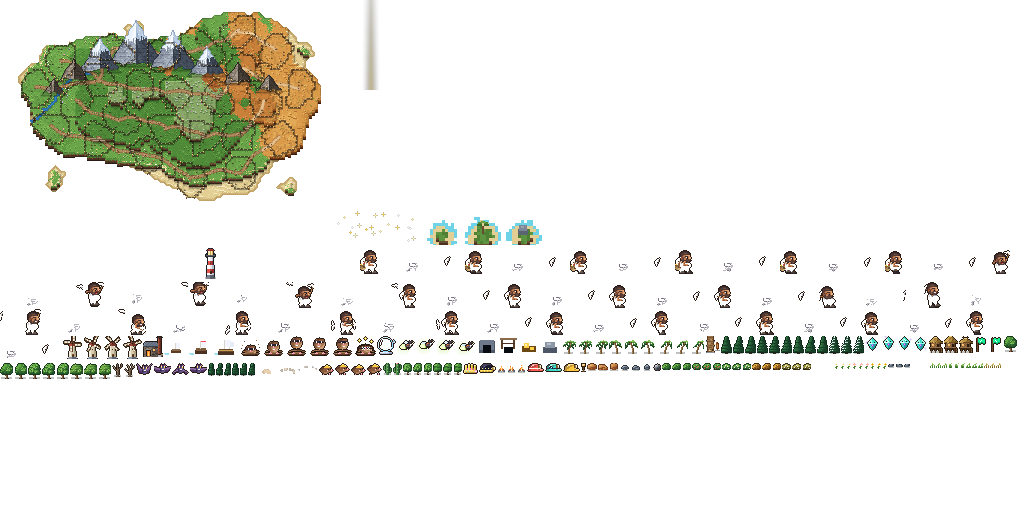
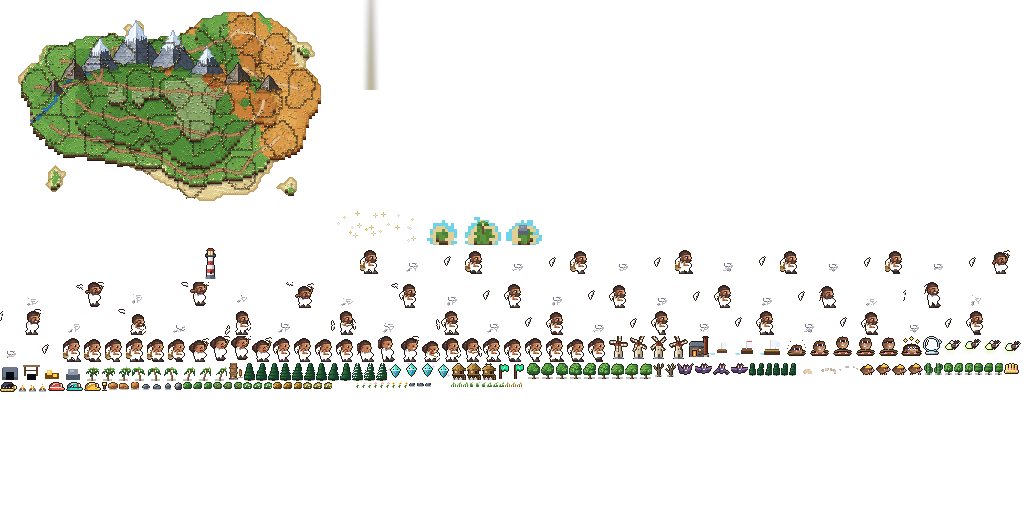
Girl miner: new body sprites, boy/girl choice for new players, synced in lobby and island

Changed region(s): [[0.0, 0.6562, 1.0, 0.7812]]

diff --git a/app/src/ui/Lobby.tsx b/app/src/ui/Lobby.tsx
@@ -7,7 +7,7 @@
  * It also holds the "back to lobby" pills the other screens use.
  */
 import AsyncStorage from '@react-native-async-storage/async-storage';
-import { useCallback, useEffect, useRef, useState } from 'react';
+import { useCallback, useEffect, useMemo, useRef, useState } from 'react';
 import { Animated, FlatList, Image, KeyboardAvoidingView, Modal, Platform, Pressable, ScrollView, StyleSheet, TextInput, View } from 'react-native';
 import { useSafeAreaInsets } from 'react-native-safe-area-context';
 import { COLORS, levelFromXp } from '../game/constants';
@@ -62,7 +62,9 @@ function LobbyInner({ onMarket, top, bottomInset, sheet, onTab }: { onMarket: ()
   const [navOpen, setNavOpen] = useState(false);
   const [howTo, setHowTo] = useState(false);
   const [tipTo, setTipTo] = useState<{ id: string; name: string; wallet: string } | null>(null);
-  const look = useRef(myLook()).current;
+  const sex = useName((s) => s.sex);
+  // eslint-disable-next-line react-hooks/exhaustive-deps
+  const look = useMemo(() => ({ ...myLook(), sex }), [sex]);
   const lvlRef = useRef(lvl);
   lvlRef.current = lvl;
 
@@ -612,12 +614,14 @@ const cs = StyleSheet.create({
 function NamePrompt({ first, onDone }: { first: boolean; onDone: () => void }) {
   const [v, setV] = useState(useName.getState().name);
   const [err, setErr] = useState('');
+  const [sex, setSex] = useState<'m' | 'f'>(useName.getState().sex);
   const save = () => {
     if (!cleanName(v)) {
       setErr('Use 2 to 14 letters, numbers, spaces, dots, dashes or underscores.');
       return;
     }
     useName.getState().set(v);
+    useName.getState().setSex(sex);
     onDone();
   };
   return (
@@ -644,6 +648,19 @@ function NamePrompt({ first, onDone }: { first: boolean; onDone: () => void }) {
           autoCorrect={false}
           style={[styles.input, { flex: 0, height: 46, minHeight: 46, width: '100%', fontSize: 18, textAlign: 'center' }]}
         />
+        <T v="label" style={{ textAlign: 'center' }}>
+          Your miner
+        </T>
+        <View style={styles.tipRow}>
+          {([['m', '👨\u200d🔧', 'BOY'], ['f', '👩\u200d🔧', 'GIRL']] as const).map(([k, icon, label]) => (
+            <Pressable key={k} onPress={() => setSex(k)} style={[styles.tipChip, { flex: 1 }, sex === k && styles.tipOn]} accessibilityRole="button" accessibilityLabel={`${label} miner`}>
+              <T style={{ fontSize: 26 }}>{icon}</T>
+              <T v="black" style={{ fontSize: 13, color: sex === k ? '#10162c' : COLORS.text }}>
+                {label}
+              </T>
+            </Pressable>
+          ))}
+        </View>
         {err ? (
           <T v="bold" style={{ color: COLORS.red, fontSize: 12, textAlign: 'center' }}>
             {err}

diff --git a/app/src/pixel/PixelMine.tsx b/app/src/pixel/PixelMine.tsx
@@ -6,6 +6,7 @@
  * picture needs into a Snapshot and pushes it if anything changed. The engine
  * sends back taps, sounds and where your miner is. Nothing here draws.
  */
+import { useName } from '../game/username';
 import { useCallback, useEffect, useRef, useState } from 'react';
 import { StyleSheet, View } from 'react-native';
 import { BLOCKS, CAVE_IN_EVERY, GEAR, LOCK_MS, gearByKey, levelFromXp, type Gear } from '../game/constants';
@@ -37,6 +38,7 @@ function lookOfPeer(p: Avatar): Look {
     handle: pick?.color ?? '#6b4a32',
     pet: p.pk ?? (p.pet ? byColor('pet', p.pet)?.key ?? 'pet-mole' : null),
     glow: pick ? GLOW[pick.rarity] : 'none',
+    sex: p.sx === 'f' ? 'f' : 'm',
   };
 }
 
@@ -52,7 +54,7 @@ function myGear() {
 /** Your miner as the canvas draws it, for anything else that shows the same miner. */
 export function myLook(): Look {
   const { pick, hat, fit, pet } = myGear();
-  return { hat: hat.key, fit: fit.color, pick: pick.accent, handle: pick.color, pet: pet?.key ?? null, glow: GLOW[pick.rarity] };
+  return { hat: hat.key, fit: fit.color, pick: pick.accent, handle: pick.color, pet: pet?.key ?? null, glow: GLOW[pick.rarity], sex: useName.getState().sex };
 }
 
 function snapshot(): Snapshot {
@@ -99,7 +101,7 @@ function snapshot(): Snapshot {
     perBlock: potNow ? potNow.perBlock.map((v) => Math.round(v * 1e5) / 1e5) : Array(BLOCKS).fill(0),
     mine,
     me: {
-      look: { hat: hat.key, fit: fit.color, pick: pick.accent, handle: pick.color, pet: pet?.key ?? null, glow: GLOW[pick.rarity] },
+      look: { hat: hat.key, fit: fit.color, pick: pick.accent, handle: pick.color, pet: pet?.key ?? null, glow: GLOW[pick.rarity], sex: useName.getState().sex },
       emoji: emo(world.me),
       emoteAt: st.emote,
       name: 'You',
@@ -214,7 +216,7 @@ export default function PixelMine() {
         const lvl = levelFromXp(player ? player.xp + st.save.bonusXp : st.save.xp);
         const pose = e.pose === 'walk' || e.pose === 'swing' ? e.pose : 'idle';
         publishMe(
-          { x: e.x, y: e.y, tx: e.tx, ty: e.ty, facing: e.facing, pose, hat: hat.color, fit: fit.color, pick: pick.accent, pet: pet?.color ?? null, lvl, hk: hat.key, pk: pet?.key ?? null },
+          { x: e.x, y: e.y, tx: e.tx, ty: e.ty, facing: e.facing, pose, hat: hat.color, fit: fit.color, pick: pick.accent, pet: pet?.color ?? null, lvl, hk: hat.key, pk: pet?.key ?? null, sx: useName.getState().sex },
           { wallet: st.wallet.owner, session, sessionValid: Boolean(player && session && player.session === session.publicKey.toBase58() && player.sessionExpires * 1000 > Date.now()) },
         );
         break;

diff --git a/app/src/game/world.ts b/app/src/game/world.ts
@@ -35,6 +35,8 @@ export interface Avatar {
   /** helmet and pet gear keys, sent by newer clients; older ones send colours only */
   hk?: string;
   pk?: string | null;
+  /** which miner body they play: 'f' is the girl miner */
+  sx?: 'm' | 'f';
 }
 export interface MeState {
   x: number;
@@ -50,6 +52,7 @@ export interface MeState {
   lvl: number;
   hk?: string;
   pk?: string | null;
+  sx?: 'm' | 'f';
 }
 
 export const EMOTES = ['👋', '⛏', '🎉', '💎', '🔥'] as const;
@@ -208,6 +211,7 @@ function onState(p: any) {
     seen: Date.now(),
     hk: typeof p.hk === 'string' && /^hat-[a-z]{2,12}$/.test(p.hk) ? p.hk : undefined,
     pk: typeof p.pk === 'string' && /^pet-[a-z]{2,12}$/.test(p.pk) ? p.pk : null,
+    sx: p.sx === 'f' ? 'f' : 'm',
   };
   useWorld.setState((s) => ({ peers: { ...s.peers, [id]: av } }));
   // identity claim: wallet + session key + signature over a fresh timestamp
@@ -263,6 +267,7 @@ export function publishMe(me: MeState, identity: { wallet: string | null; sessio
     lvl: me.lvl,
     hk: me.hk,
     pk: me.pk ?? null,
+    sx: me.sx === 'f' ? 'f' : 'm',
     nm: useName.getState().name || undefined,
   };
   const key = JSON.stringify(payload);

diff --git a/app/src/game/username.ts b/app/src/game/username.ts
@@ -8,17 +8,27 @@ import { create } from 'zustand';
 import { cleanName } from './lobbyMap';
 
 const KEY = 'gali-name-v1';
+const SEX_KEY = 'gali-sex-v1';
+export type Sex = 'm' | 'f';
 
 interface NameState {
   name: string;
   /** the saved name has been read (so a first-time prompt does not flash for a returning player) */
   ready: boolean;
   set: (raw: string) => boolean;
+  /** which miner you play: the boy or the girl. Kept on this device. */
+  sex: Sex;
+  setSex: (s: Sex) => void;
 }
 
 export const useName = create<NameState>((set) => ({
   name: '',
   ready: false,
+  sex: 'm',
+  setSex: (s) => {
+    set({ sex: s });
+    AsyncStorage.setItem(SEX_KEY, s).catch(() => undefined);
+  },
   set: (raw) => {
     const name = cleanName(raw);
     if (!name) return false;
@@ -31,3 +41,9 @@ export const useName = create<NameState>((set) => ({
 AsyncStorage.getItem(KEY)
   .then((v) => useName.setState({ name: cleanName(v), ready: true }))
   .catch(() => useName.setState({ ready: true }));
+
+AsyncStorage.getItem(SEX_KEY)
+  .then((v) => {
+    if (v === 'f' || v === 'm') useName.setState({ sex: v });
+  })
+  .catch(() => undefined);

diff --git a/app/src/engine/actors.ts b/app/src/engine/actors.ts
@@ -19,7 +19,7 @@ export const HIT_FRAME = M.hit as number;
 export const IMPACT = M.impact as unknown as [number, number];
 
 const cache = new Map<string, HTMLCanvasElement>();
-const lookKey = (l: Look) => `${l.hat}|${l.fit}|${l.pick}`;
+const lookKey = (l: Look) => `${l.hat}|${l.fit}|${l.pick}|${l.sex === 'f' ? 'f' : 'm'}`;
 
 /** One composed frame: body, tinted overalls, helmet, tinted pick head, shading. */
 export function minerFrame(look: Look, pose: Pose, f: number): HTMLCanvasElement {
@@ -41,6 +41,7 @@ export function minerFrame(look: Look, pose: Pose, f: number): HTMLCanvasElement
       if (s && h) g.drawImage(s, PAD_X + hx - h.ax, PAD_T + hy - h.ay);
     } else if (layer === 'fit') put(`${base}-fit`, look.fit);
     else if (layer === 'pick') put(`${base}-pick`, look.pick);
+    else if (layer === 'base' && look.sex === 'f') put(`minerf-${pose}-${f}-base`);
     else put(`${base}-${layer}`);
   }
   if (cache.size > 900) cache.clear();

diff --git a/app/src/game/lobby.ts b/app/src/game/lobby.ts
@@ -159,6 +159,7 @@ function onState(p: any) {
     handle: col(p.hd, '#9b6b43'),
     pet: typeof p.pt === 'string' && KEY.test(p.pt) ? p.pt : null,
     glow: GLOWS.includes(p.g) ? p.g : 'none',
+    sex: p.sx === 'f' ? 'f' : 'm',
   };
   const jumped = !prev || Math.hypot(prev.x - x, prev.y - y) > 40;
   const peer: LobbyPeer = {
@@ -396,6 +397,7 @@ export function publishLobbyMe(m: { x: number; y: number; tx: number; ty: number
     hd: m.look.handle,
     pt: m.look.pet,
     g: m.look.glow,
+    sx: m.look.sex === 'f' ? 'f' : 'm',
     lvl: m.lvl,
     ...(m.wallet ? { w: m.wallet } : {}),
   };

diff --git a/app/src/pixel/LobbyView.tsx b/app/src/pixel/LobbyView.tsx
@@ -33,6 +33,11 @@ export default function LobbyView({ ref, onEvent, atlas, look, opts }: { ref: Re
     [],
   );
 
+  // your look changed (you picked the girl or boy miner)
+  useEffect(() => {
+    engine.current?.setLook(look);
+  }, [look.sex, look.hat, look.fit, look.pick, look.pet]);
+
   useEffect(() => {
     const cv = canvas.current;
     if (!cv) return;

diff --git a/app/src/engine/types.ts b/app/src/engine/types.ts
@@ -16,6 +16,8 @@ export interface Look {
   handle: string; // pick handle colour
   pet: string | null; // pet gear key
   glow: 'none' | 'rare' | 'epic' | 'legendary'; // pick rarity, for sparkles
+  /** which miner body: 'f' draws the girl miner. Anything else is the boy. */
+  sex?: 'm' | 'f';
 }
 
 export interface PeerView {

diff --git a/app/src/engine/lobby.ts b/app/src/engine/lobby.ts
@@ -132,6 +132,9 @@ export class LobbyEngine {
     (globalThis as unknown as { __galiLobby?: LobbyEngine }).__galiLobby = this;
   }
 
+  setLook(l: Look) {
+    this.look = l;
+  }
   setOpts(o: Partial<LobbyOpts>) {
     this.opts = { ...this.opts, ...o };
   }

diff --git a/scripts/actors_miner.py b/scripts/actors_miner.py
@@ -38,13 +38,44 @@ HEAD_LEGEND = {
     'E': ('eye', 0), 'e': ('eye', 0), 'w': ('white', 0),
     'm': ('mouth', 0), 'M': ('mouth', 1), 't': ('mouth', 2),
 }
+# The girl miner: the same skull, helmet line and eye, a clean jaw instead of the beard,
+# and a ponytail (HAIR_TAIL) hanging behind the head, tied with a red band.
+HEAD_F = [
+    "....hhhh....",
+    "..hhHHHHhh..",
+    ".hHHHJJJHHh.",
+    ".hHHHHHHHHh.",
+    ".hHHsSSLLLL.",
+    ".hHsSSSSSSL.",
+    ".hsdsSSwESLl",
+    ".hssSSSsESlL",
+    "..sSSSSSSLs.",
+    "..sSSSSSSSL.",
+    "...sSSSSLs..",
+    ".....sSSs...",
+]
+HAIR_TAIL = [
+    "..hh",
+    ".hHH",
+    "hHHh",
+    "hHJh",
+    "hHHh",
+    "hHHh",
+    ".hHh",
+    "..hh",
+]
 HEAD_W = len(HEAD[0])
 HEAD_TOP_CX = 6        # skull-top centre column within the stamp
 EYE = (8, 6)           # upper eye pixel within the stamp (2 px tall)
 
 
-def draw_head(f, ox, oy, eyes='open', mouth=None):
-    f.stamp(HEAD, ox, oy, HEAD_LEGEND, part='head')
+def draw_head(f, ox, oy, eyes='open', mouth=None, female=False):
+    if female:
+        f.stamp(HAIR_TAIL, ox - 3, oy + 3, HEAD_LEGEND, part='head')
+        f.put(ox - 1, oy + 4, 'red', 2, 'head')  # hair band
+        f.stamp(HEAD_F, ox, oy, HEAD_LEGEND, part='head')
+    else:
+        f.stamp(HEAD, ox, oy, HEAD_LEGEND, part='head')
     ex, ey = ox + EYE[0], oy + EYE[1]
     if eyes != 'open':
         f.put(ex - 1, ey, 'skin', 2, 'head')
@@ -318,7 +349,7 @@ def draw_sack(f, J, sway):
     f.put(cx + 1.6, cy + 1.6, 'sack', 0, 'sack')
 
 
-def draw_frame(p):
+def draw_frame(p, female=False):
     f = Frame(W, H)
     body = p['body']
     squash = p.get('squash', 0)
@@ -341,7 +372,7 @@ def draw_frame(p):
         if z == 'front':
             draw_pick(f, grip, J, buried=p.get('buried'))
         draw_arm(f, sf, grip, 'arm-f')
-    draw_head(f, hx, hy, p.get('eyes', 'open'), p.get('mouth'))
+    draw_head(f, hx, hy, p.get('eyes', 'open'), p.get('mouth'), female)
     if armz == 'front':
         if z == 'front':
             draw_pick(f, grip, J, buried=p.get('buried'))
@@ -375,3 +406,15 @@ def build_miner():
             frames[pose].append(f.render())
             heads[pose].append([int(ha[0]), int(ha[1])])
     return frames, heads
+
+
+def build_miner_f():
+    """The girl miner's body layer per pose and frame: {pose: [base image]}. Her overalls, pick and hat layers
+    are the boy's, so only the base (skin, hair, boots) is drawn again."""
+    out = {}
+    for pose, seq in pose_frames().items():
+        out[pose] = []
+        for p in seq:
+            f, _ = draw_frame(p, True)
+            out[pose].append(f.render()['base'])
+    return out

diff --git a/scripts/actors.py b/scripts/actors.py
@@ -65,6 +65,10 @@ def build(atlas):
                 atlas.add(f'miner-{pose}-{t}-{name}', layers[name], M.AX, M.AY)
         poses[pose] = {'n': len(seq), 'ms': M.POSES[pose], 'loop': LOOP[pose]}
 
+    for pose, seq in M.build_miner_f().items():
+        for t, base in enumerate(seq):
+            atlas.add(f'minerf-{pose}-{t}-base', base, M.AX, M.AY)
+
     # ---- helmets
     hats = actors_hats.build_hats()
     hat_meta = {}
